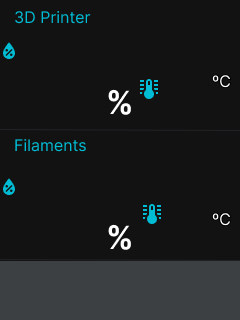
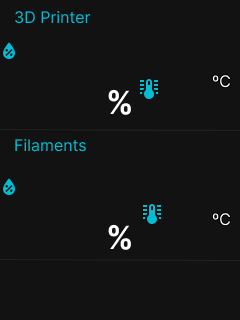
Add network status

Changed region(s): [[0.0, 0.8125, 1.0, 1.0]]

diff --git a/src/main.py b/src/main.py
@@ -11,6 +11,8 @@ from modules.sensors import DHT22, PWMSensor
 from modules.touch_listener import TouchListener
 from modules.render import RenderedComponent
 from modules.bus_events import BusEvents, BusEventLlistener
+from modules.network import NetworkInfo
+import time
 
 class Main(BusEventLlistener):
     selected_screen = None
@@ -24,34 +26,38 @@ class Main(BusEventLlistener):
     def __init__(self):
         self.selected_screen = LoadingScreen()
         threading.Thread(target=self._render_thread).start()
-
         self.selected_screen.step = 1
+        self.network_info = NetworkInfo()
         self.pixels1 = neopixel.NeoPixel(LEDS1_PIN, LEDS1_SIZE, pixel_order=neopixel.GRB, brightness=0)
-
+        time.sleep(0.5)
+        self.pixels2 = neopixel.NeoPixel(LEDS2_PIN, LEDS2_SIZE, pixel_order=neopixel.GRB, brightness=0)
+        time.sleep(0.5)
         self.selected_screen.step = 2
         self.sensor1 = DHT22(SENSOR1_CS)
         self.sensor2 = DHT22(SENSOR2_CS)
         self.pwmsensor = PWMSensor(PWM_PIN, TACH_SENSOR)
+        time.sleep(0.5)
 
         self.selected_screen.step = 3
         bus_events = BusEvents()
         bus_events.set_listener(self)
-
+        time.sleep(0.5)
         self.selected_screen.step = 4
-        self.screens['main'] = MainScreen(self.pixels1, self.pwmsensor)
-
+        self.screens['main'] = MainScreen(self.pixels1, self.pixels2, self.pwmsensor)
+        time.sleep(0.5)
         self.selected_screen.step = 5
         threading.Thread(target=self._sensors_thread).start()
-
+        time.sleep(0.5)
         self.selected_screen.step = 6
         self.screens['color_picker'] = ColorPickerScreen()
-
+        time.sleep(0.5)
         self.selected_screen.step = 9
         self.touchListener = TouchListener(self.spi, self._touch_event)
         threading.Thread(target=self._touch_thread).start()
-
+        time.sleep(0.5)
         self.selected_screen.step = 10
         self.select_screen('main')
+        # threading.Thread(target=self._network_thread).start()        
 
     def select_screen(self, screen, section = None):
         self.screens[screen].clear_state()
@@ -66,6 +72,14 @@ class Main(BusEventLlistener):
         while self.procesing:
             self.selected_screen.render(self.disp)
             time.sleep(0.05)
+
+    def _network_thread(self):
+        while self.procesing:
+            self.network_info.check_network_info()
+            if self.network_info.private_ip != None:
+                time.sleep(10)
+            else:
+                time.sleep(1)
 
     def _sensors_thread(self):
         while self.procesing:

diff --git a/src/modules/screens.py b/src/modules/screens.py
@@ -1,6 +1,6 @@
 import adafruit_rgb_display.rgb as rgb
 from modules.render import RenderedComponent, TouchEvent
-from modules.sections import NumberSection, LightSection, ColorPickerSection, ButtonSection, FanSection
+from modules.sections import NumberSection, LightSection, ColorPickerSection, ButtonSection, FanSection, WifiSection
 from PIL import Image, ImageDraw, ImageFont
 from modules.bus_events import BusEvents
 from constants import *
@@ -65,7 +65,7 @@ class LoadingScreen(Screen):
 
 
 class MainScreen(Screen):
-    def __init__(self, pixels1, pwm_sensor):
+    def __init__(self, pixels1, pixels2, pwm_sensor):
         self.section1 = {
             'temperature': NumberSection( 161, 79, 53, 44, FONT_SIZE_MEDIUM, COLOR_TEXT, COLOR_BACKGROUND, ALIGN_RIGHT),
             'humidity': NumberSection( 14, 47, 95, 74, FONT_SIZE_BIG, COLOR_TEXT, COLOR_BACKGROUND, ALIGN_RIGHT),
@@ -74,10 +74,11 @@ class MainScreen(Screen):
         self.section2 = {
             'temperature': NumberSection( 161, 214, 53, 44, FONT_SIZE_MEDIUM, COLOR_TEXT, COLOR_BACKGROUND, ALIGN_RIGHT),
             'humidity': NumberSection( 14, 178, 95, 74, FONT_SIZE_BIG, COLOR_TEXT, COLOR_BACKGROUND, ALIGN_RIGHT),
-            'light': LightSection(181, 136, pixels1, 'sec1'),
+            'light': LightSection(181, 136, pixels2, 'sec2'),
         }
         self.pwm = NumberSection(128, 55, 48, 12, FONT_SIZE_SMALL, COLOR_ACCENT, COLOR_BACKGROUND, ALIGN_CENTER)
         self.pwm_section = FanSection(127, 4, pwm_sensor)
+        self.wifi = WifiSection(190, 270);
 
         super().__init__('resources/main.jpg', None, [
             self.section1["temperature"],
@@ -88,6 +89,7 @@ class MainScreen(Screen):
             self.section2["temperature"],
             self.section2["humidity"],
             self.section2["light"],
+            self.wifi,
         ])
 
     def setSensorValues(self, values):

diff --git a/src/modules/sections.py b/src/modules/sections.py
@@ -3,6 +3,7 @@ from modules.render import RenderedComponent, TouchEvent
 from PIL import Image, ImageDraw, ImageFont
 from modules.bus_events import BusEvents
 from modules.store import Store
+from modules.network import NetworkInfo
 from constants import COLOR_BACKGROUND, COLOR_TEXT, ALIGN_LEFT, ALIGN_RIGHT, ALIGN_CENTER, DISPLAY_HEIGHT, DISPLAY_WIDTH
 
 class Section (RenderedComponent, TouchEvent):
@@ -196,3 +197,24 @@ class ButtonSection(Section):
     def touch_event(self, event, time, x, y):
         if event == 'touch_down' and self.is_point_into(x,y):
             self.action()
+
+class WifiSection(Section):
+    images = None
+    IP = None
+    
+    def __init__(self, x, y):
+        if self.images == None:
+            self.images = [Image.open(f"resources/wifi{i}.jpg") for i in range(1, 3)]
+        super().__init__(x, y, self.images[0].width, self.images[0].height)
+        self.backgroundImg = self.images[0]
+        self.network_info = NetworkInfo()
+
+    def render(self, disp):
+        if self.IP == None and self.network_info.private_ip != None:
+            self.backgroundImg = self.images[1]
+            self.rendered = False
+        if self.IP != None and self.network_info.private_ip == None:
+            self.backgroundImg = self.images[0]
+            self.rendered = False
+        self.IP = self.network_info.private_ip
+        super().render(disp)

diff --git a/src/modules/network.py b/src/modules/network.py
@@ -1,0 +1,47 @@
+import socket
+import requests
+import threading
+
+class NetworkInfo:
+    _instance = None
+
+    def __new__(cls):
+        if cls._instance is None:
+            cls._instance = super(NetworkInfo, cls).__new__(cls)
+            cls._instance._initialize()
+        return cls._instance
+
+    def _initialize(self):
+        self.internet_status = None
+        self.private_ip = None
+
+    def check_network_info(self):
+        self.internet_status = self._check_internet()
+        self.private_ip = self._get_private_ip()
+
+    def _check_internet(self):
+        try:
+            requests.get('http://www.google.com', timeout=5)
+            return True
+        except requests.ConnectionError:
+            return False
+
+    def _get_private_ip(self):
+        try:
+            s = socket.socket(socket.AF_INET, socket.SOCK_DGRAM)
+            s.settimeout(0)
+            s.connect(('192.168.0.1', 1))
+            ip = s.getsockname()[0]
+            s.close()
+            return ip
+        except Exception:
+            return None
+
+# Usage
+# print(f"Internet startig")
+# network_info = NetworkInfo()
+# # Wait for the thread to complete (for demonstration purposes)
+# # threading.Event().wait(1)
+# network_info.check_network_info()
+# print(f"Internet Status: {network_info.internet_status}")
+# print(f"Private IP: {network_info.private_ip}")

diff --git a/src/constants.py b/src/constants.py
@@ -19,7 +19,7 @@ TOUCH_CS = digitalio.DigitalInOut(board.CE1)
 TOUCH_EVENT = board.D26
 
 LEDS1_PIN = board.D12
-LEDS1_SIZE = 20
+LEDS1_SIZE = 81
 
 LEDS2_PIN = board.D18
 LEDS2_SIZE = 20
